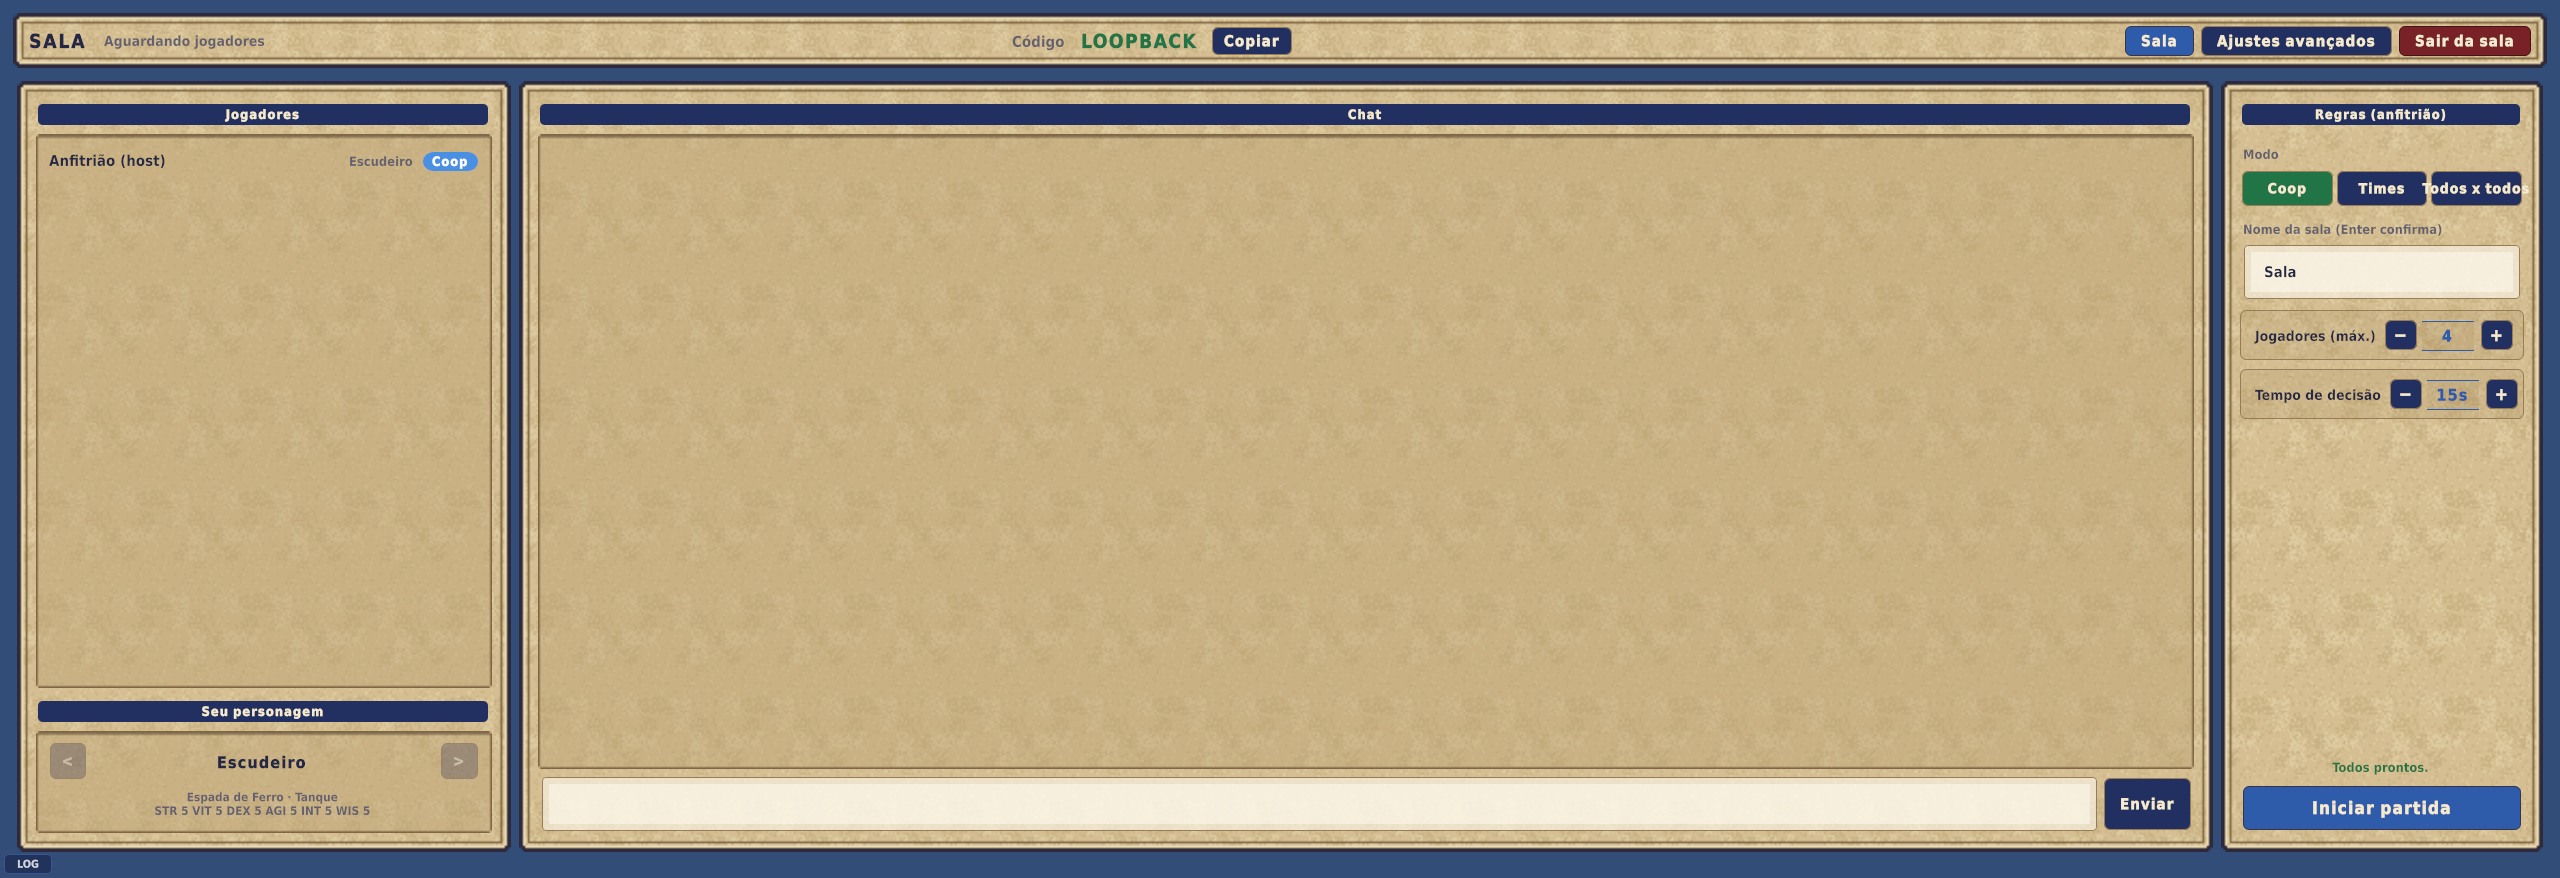
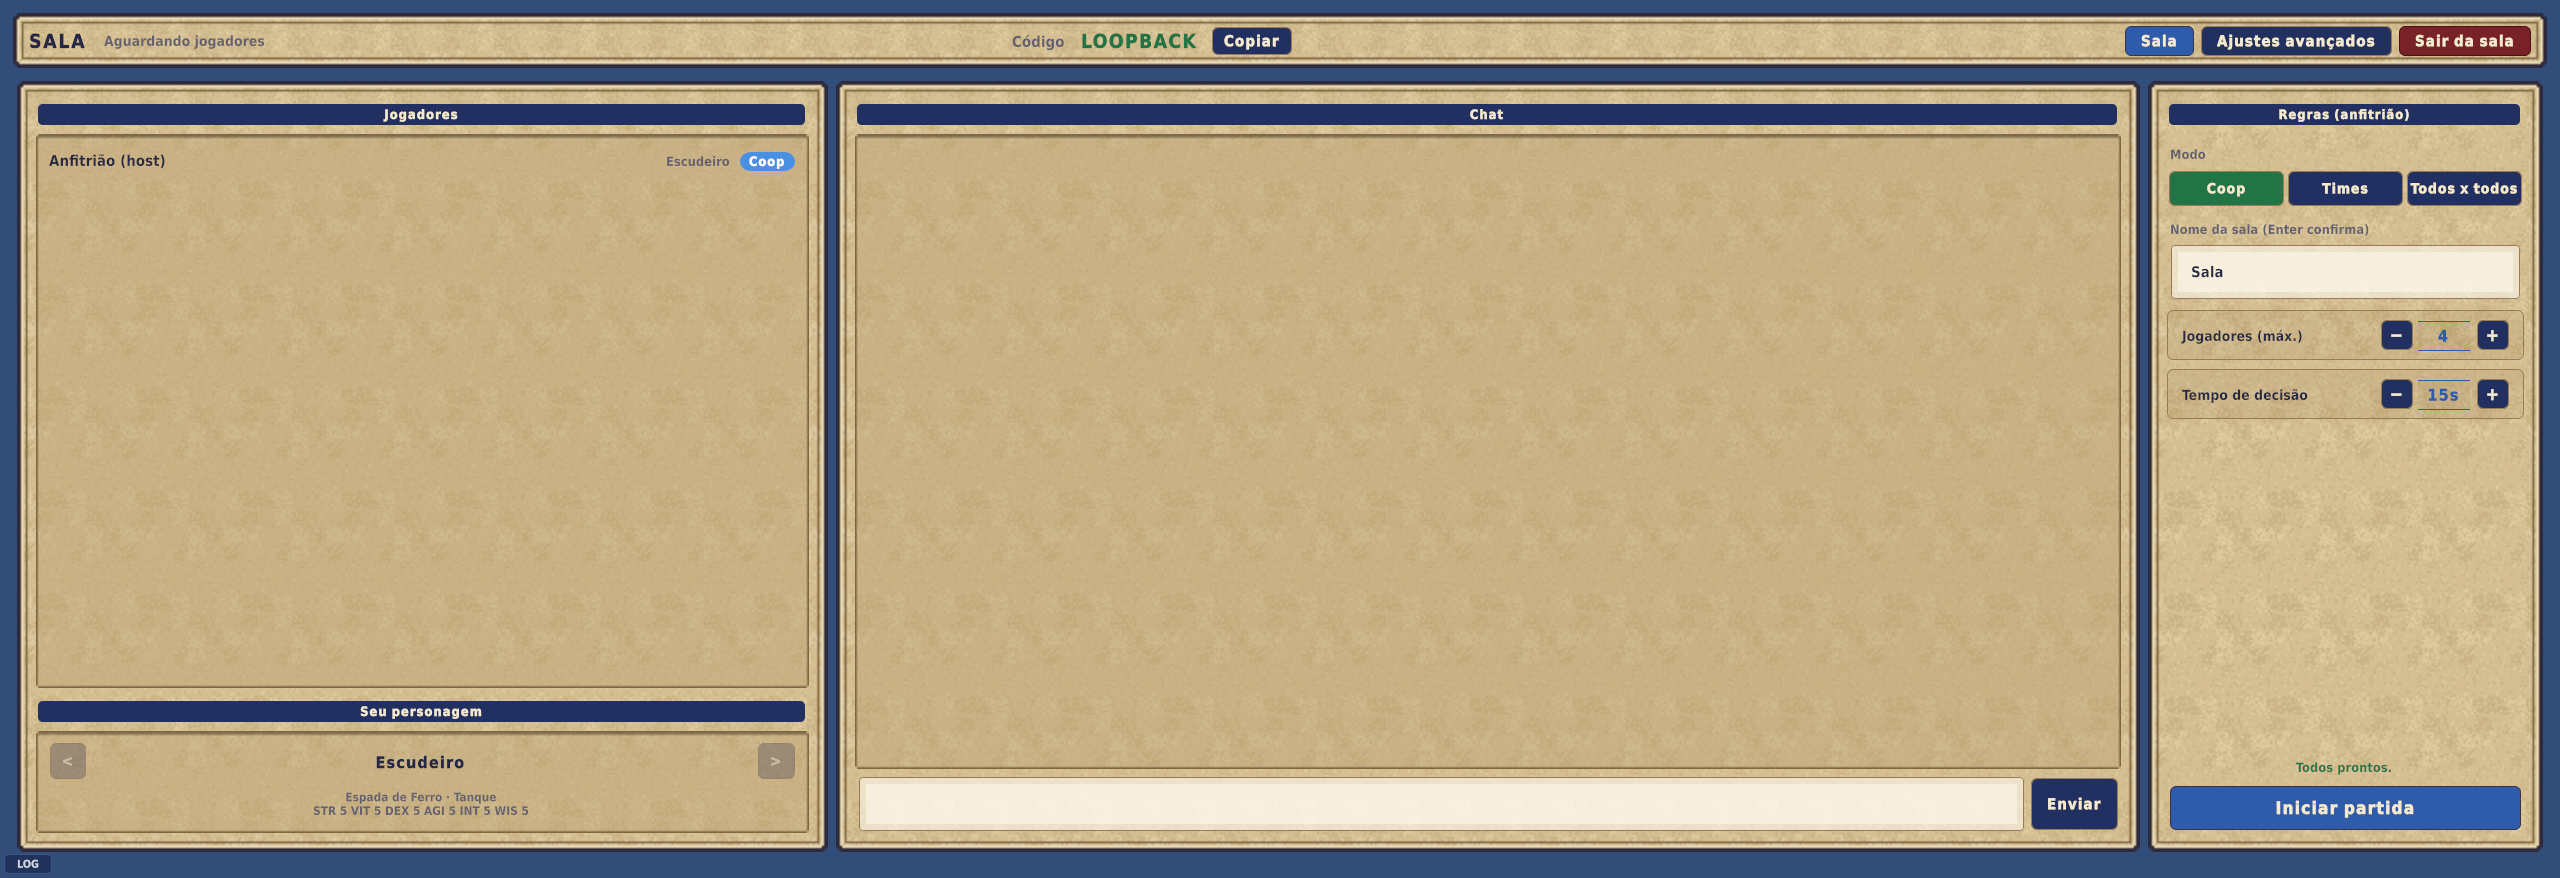
feat: feedback rodada 3 — magias em grade, presets da sala, rig no editor, toque e UI em %
- DEX à distância 4% → 2% por ponto (STR segue 6%).
- Magias: duração em rounds (dano contínuo segue por tick); incremento Efeito +1 round.
- Tela de magias: grade por elemento com sprites e busca sem acento; descrição de
  altura fixa (antes empurrava o painel).
- Sala: busca nas edições avançadas; presets nomeados (modo, regras e tuning).
- Celular: ação primeiro — com ação armada, um toque no alvo confirma; botão Andar.
- Rig: nós de ajuste entre articulação e peça; janela Pangea Skirmish/Animation/
  Rig e animações salva em Resources/RigOffsets. Animações saíram do menu do jogo.
- UI em % da tela (HUD, magias, menus, sala, criação); proporção mantida por
  UIHelper.KeepAspect onde a altura precisa seguir a largura.
- Pergaminho comum (o rasgado atrapalhava a leitura).
- Testes: presets, rig, busca/grade de magias; expectativas de DEX atualizadas.

diff --git a/scripts/gen_ui.py b/scripts/gen_ui.py
@@ -14,9 +14,8 @@ from PIL import Image
 OUT = os.path.join(os.path.dirname(__file__), "..", "Assets", "Resources", "UI", "Theme")
 # Pergaminho mais escuro e PIXELADO (pedido 2026-11-14): 4 tons, sem suavização. A textura é pequena
 # (64 px) e o tema a desenha em escala 2× com filtro "ponto"; o miolo (48×48) repete sem emenda.
-TONES = [(168, 142, 98), (150, 124, 84), (182, 158, 112), (126, 100, 64)]   # 2026-11-14: bem mais escuro e velho
-STAIN = (104, 80, 50)                                                      # manchas de idade
-INK, LINE, HILITE = (38, 30, 26), (96, 74, 46), (196, 172, 124)
+TONES = [(212, 191, 146), (201, 178, 131), (222, 203, 160), (186, 161, 114)]   # base, sombra, luz, mancha
+INK, LINE, HILITE = (46, 42, 60), (128, 102, 68), (236, 220, 180)
 B = 8            # borda do 9-slice, em px da textura
 N = 64
 
@@ -32,43 +31,26 @@ def tile_tone(rnd, coarse, x, y, m):
     return 0
 
 def paper(seed):
-    """Pergaminho velho: miolo pontilhado com manchas de idade; borda rasgada e queimada.
-    A borda (8 px) repete em 9-slice, então o rasgo também repete ao longo do painel."""
     rnd = random.Random(seed)
     m = N - 2 * B
     g = 6
-    coarse = [[rnd.choice([0, 0, 0, 1, 2, 0, 3 if rnd.random() < 0.35 else 0]) for _ in range(g)] for _ in range(g)]
+    coarse = [[rnd.choice([0, 0, 0, 1, 2, 0, 3 if rnd.random() < 0.25 else 0]) for _ in range(g)] for _ in range(g)]
     core = [[TONES[tile_tone(rnd, coarse, x, y, m)] for x in range(m)] for y in range(m)]
-    for _ in range(3):                                   # manchas redondas (umidade, idade)
-        cx, cy, r = rnd.randrange(m), rnd.randrange(m), rnd.randint(3, 6)
-        for y in range(m):
-            for x in range(m):
-                dx = min(abs(x - cx), m - abs(x - cx)); dy = min(abs(y - cy), m - abs(y - cy))
-                d2 = dx * dx + dy * dy
-                if d2 <= r * r and rnd.random() < 0.75: core[y][x] = STAIN
-                elif d2 <= (r + 1) * (r + 1) and rnd.random() < 0.5: core[y][x] = TONES[1]
     img = Image.new("RGBA", (N, N), (0, 0, 0, 0))
     px = img.load()
     for y in range(N):
         for x in range(N):
-            px[x, y] = core[(y - B) % m][(x - B) % m] + (255,)
-    # Rasgo: a profundidade do corte varia ao longo de cada lado (0–4 px); fora dele é transparente,
-    # e logo dentro do corte fica uma faixa queimada escura. O mesmo perfil nos 4 lados, com fase diferente.
-    prof = []
-    depth = 1
-    for i in range(N):
-        depth = max(0, min(4, depth + rnd.choice([-1, 0, 0, 1])))
-        prof.append(depth)
-    def cut(x, y, d):
-        if d < 0: return
-        for k in range(d): px[x(k), y(k)] = (0, 0, 0, 0)
-        px[x(d), y(d)] = INK + (255,)
-        if d + 1 < B: px[x(d + 1), y(d + 1)] = (92, 66, 40, 255)
-    for i in range(N):
-        cut(lambda k: i, lambda k: k, prof[i])                          # topo
-        cut(lambda k: i, lambda k: N - 1 - k, prof[(i + 17) % N])       # base
-        cut(lambda k: k, lambda k: i, prof[(i + 33) % N])               # esquerda
-        cut(lambda k: N - 1 - k, lambda k: i, prof[(i + 49) % N])       # direita
+            px[x, y] = core[(y - B) % m][(x - B) % m] + (255,)      # a borda continua o desenho do miolo
+    # moldura em degraus (canto de pixel art): tinta por fora, filete claro e sépia por dentro
+    def ring(d, col):
+        for i in range(d, N - d):
+            for (x, y) in ((i, d), (i, N - 1 - d), (d, i), (N - 1 - d, i)): px[x, y] = col + (255,)
+    ring(0, INK); ring(1, INK); ring(2, HILITE); ring(4, LINE)
+    for cx, cy in ((0, 0), (N - 1, 0), (0, N - 1), (N - 1, N - 1)):  # cantos cortados em 2 px
+        sx, sy = (1 if cx == 0 else -1), (1 if cy == 0 else -1)
+        for a, b in ((0, 0), (1, 0), (0, 1)): px[cx + a * sx, cy + b * sy] = (0, 0, 0, 0)
+        px[cx + sx, cy + sy] = INK + (255,); px[cx + 2 * sx, cy + sy] = INK + (255,); px[cx + sx, cy + 2 * sy] = INK + (255,)
+        px[cx + 2 * sx, cy + 2 * sy] = INK + (255,)
     return img
 
 def inset():

diff --git a/Assets/Scripts/BattleHUD.cs b/Assets/Scripts/BattleHUD.cs
@@ -297,6 +297,7 @@ namespace PangeaSkirmish
             _timerText        = r.Q<Label>("timer-text");
             _cameraModeText   = r.Q<Label>("camera-mode-text");
             _compassRose      = r.Q<VisualElement>("compass-rose");
+            KeepAspect(r.Q<VisualElement>("compass"), 1f);
             _compassLabels    = new[] { r.Q<Label>("compass-n"), r.Q<Label>("compass-e"),
                                         r.Q<Label>("compass-s"), r.Q<Label>("compass-w") };
             // Toque/clique na bússola gira a vista (GDD-022): metade esquerda = anti-horário, direita = horário.
@@ -1017,6 +1018,7 @@ namespace PangeaSkirmish
                 btn.RegisterCallback<PointerEnterEvent>(_ => ShowActionTip(item));
                 btn.RegisterCallback<PointerLeaveEvent>(_ => { if (_actionTip != null) _actionTip.style.display = DisplayStyle.None; });
                 bool stance = item.Id == "posture" || item.Id == "reaction";
+                KeepAspect(btn, stance ? 0.5f : 0.82f);
                 if (stance && _stanceRow != null) { btn.AddToClassList("bh-abtn--stance"); _stanceRow.Add(btn); }
                 else _actionBar.Add(btn);
                 _barButtons.Add((item, btn, badge));
@@ -1033,6 +1035,8 @@ namespace PangeaSkirmish
         }
 
         /// <summary>Espaço que os popups da barra de ticks deixam para a barra de ações (que fica logo acima).</summary>
+        private static void KeepAspect(VisualElement e, float ratio) => UIHelper.KeepAspect(e, ratio);
+
         private float ActionBarClearance()
         {
             return 0f;   // a barra de ações saiu de cima dos ticks (grade no canto esquerdo)

diff --git a/Assets/Scripts/UI/UIHelper.cs b/Assets/Scripts/UI/UIHelper.cs
@@ -57,6 +57,22 @@ namespace PangeaSkirmish.UI
             return RuntimePanelUtils.ScreenToPanel(panel, new Vector2(screenPos.x, Screen.height - screenPos.y));
         }
 
+        /// <summary>
+        /// Mantém a proporção: altura = largura × ratio. Larguras vêm em % da tela pelo USS; altura em % encolheria
+        /// em telas largas, então ela segue a largura (2026-11-14).
+        /// </summary>
+        public static void KeepAspect(VisualElement e, float ratio)
+        {
+            if (e == null) return;
+            e.RegisterCallback<GeometryChangedEvent>(_ =>
+            {
+                float w = e.layout.width;
+                if (float.IsNaN(w) || w <= 0f) return;
+                float h = w * ratio;
+                if (Mathf.Abs(e.resolvedStyle.height - h) > 0.5f) e.style.height = h;
+            });
+        }
+
         /// <summary>Texto para busca simples: minúsculo e sem acento ("Água" acha "agua"). 2026-11-14.</summary>
         public static string Fold(string t)
         {

diff --git a/Assets/Tests/PlayMode/SpellCastFlowTest.cs b/Assets/Tests/PlayMode/SpellCastFlowTest.cs
@@ -322,7 +322,7 @@ public class SpellCastFlowTest
         var longBow  = Make("ArqLongo", Team.Player, new Vector2Int(8, 14), "LongBow", 0, 5, dex: 6);
         Assert.IsTrue(longBow.stats.dexScalesDamage, "arco escala com DEX");
         Assert.IsFalse(sword.stats.dexScalesDamage, "espada continua na STR");
-        Assert.Greater(longBow.stats.PhysicalDamage, 28, "Arco Longo (3 ticks) bate forte por disparo");
+        Assert.GreaterOrEqual(longBow.stats.PhysicalDamage, 26, "Arco Longo (3 ticks) bate forte por disparo (DEX a 2% desde 2026-11-14)");
         Assert.Greater(longBow.stats.PhysicalDamage, shortBow.stats.PhysicalDamage, "arma pesada bate mais por disparo");
         float shortPerTick = shortBow.stats.PhysicalDamage / (float)TickRules.Duration(shortBow, ActionType.Attack, false);
         float swordPerTick = swordDmg / (float)TickRules.Duration(sword, ActionType.Attack, false);

diff --git a/Assets/Tests/PlayMode/SpellMenuShot.cs b/Assets/Tests/PlayMode/SpellMenuShot.cs
@@ -101,8 +101,8 @@ public class SpellMenuShot
         bool hoverShown = false;
         menu.Query<Label>().ForEach(l => { if (l.text.Contains("de dano de Fogo em quem estiver inteiro")) hoverShown = true; });
         Assert.IsTrue(hoverShown, "hover escreve o efeito da magia");
-        var ember = menu.Q<Button>("spell-Ember");
-        using (var e = PointerEnterEvent.GetPooled()) { e.target = ember; ember.SendEvent(e); }
+        var emberBlock = menu.Q<Button>("spell-Ember");
+        using (var e = PointerEnterEvent.GetPooled()) { e.target = emberBlock; emberBlock.SendEvent(e); }
         for (int i = 0; i < 2; i++) yield return null;
         Assert.AreEqual(topBefore, menu.worldBound.yMin, 0.5f, "a tela de magia não pula com a descrição");
         for (int i = 0; i < 2; i++) yield return null;

diff --git a/Assets/Tests/PlayMode/CharCreationTest.cs b/Assets/Tests/PlayMode/CharCreationTest.cs
@@ -138,6 +138,7 @@ public class CharCreationTest
         AttributeStats.Formulas = null;
         // Desde o balanceamento do simulador (2026-11-13) o critério é a taxa de vitória (scripts/balance_sim.py),
         // não o dano por tick: cajados e varinha trocam dano por conduíte de magia e alcance. Aqui só um teto de sanidade.
-        Assert.LessOrEqual(max / min, 3.5f, $"nenhuma arma bate mais de 3,5× outra por tick (menor {lo} {min:0.#}, maior {hi} {max:0.#})");
+        // 2026-11-14: a DEX à distância caiu para 2% e os cajados (DEX) ficaram mais fracos: teto de 4×.
+        Assert.LessOrEqual(max / min, 4f, $"nenhuma arma bate mais de 4× outra por tick (menor {lo} {min:0.#}, maior {hi} {max:0.#})");
     }
 }

diff --git a/Assets/Tests/EditMode/AttackShapeTests.cs b/Assets/Tests/EditMode/AttackShapeTests.cs
@@ -76,7 +76,8 @@ public class AttackShapeTests
         var bow = new UnitStatBlock { STR = 5, VIT = 5, DEX = 5, AGI = 5, INT = 5, WIS = 5 }.ToAttributeStats();
         WeaponDef.ApplyTo(bow, WeaponCatalog.Get("LongBow"), _t);
         Assert.IsTrue(bow.dexScalesDamage);
-        Assert.AreEqual(WeaponCatalog.Get("LongBow").damage * (1f + 5f * _t.statFormulas.dmgPctPerAttr), bow.DamagePerTile, 0.001f);
+        // Arma à distância escala pela DEX com multiplicador próprio (PR 27; 2% desde 2026-11-14).
+        Assert.AreEqual(WeaponCatalog.Get("LongBow").damage * (1f + 5f * _t.statFormulas.dexDmgPctPerAttr), bow.DamagePerTile, 0.001f);
     }
 
     [Test]

diff --git a/Assets/Scripts/PointerInput.cs b/Assets/Scripts/PointerInput.cs
@@ -104,7 +104,7 @@ namespace PangeaSkirmish
             _frame = Time.frameCount;
             _click = false; _dragDelta = Vector2.zero; _pinchDelta = 0f; _rightClick = false;
             var rm = Mouse.current;
-            if (rm != null)
+            if (rm != null && rm.added)   // testes trocam os dispositivos; ler um mouse removido dispara assert do Input System
             {
                 if (rm.rightButton.wasPressedThisFrame) _rightDownPos = rm.position.ReadValue();
                 if (rm.rightButton.wasReleasedThisFrame && Vector2.Distance(rm.position.ReadValue(), _rightDownPos) < 8f) _rightClick = true;

diff --git a/Assets/Scripts/UI/AnimViewerScreen.cs b/Assets/Scripts/UI/AnimViewerScreen.cs
@@ -40,6 +40,7 @@ namespace PangeaSkirmish.UI
             var r = Root;
             _stage = AnimationStage.Create(520);
             var view = r.Q<VisualElement>("view");
+            UIHelper.KeepAspect(view, 1f);
             if (view != null) view.style.backgroundImage = new StyleBackground(Background.FromRenderTexture(_stage.Texture));
             _actorLbl = r.Q<Label>("actor-label"); _timeLbl = r.Q<Label>("time-label");
             _notesFor = r.Q<Label>("notes-for"); _notesStatus = r.Q<Label>("notes-status");

diff --git a/Assets/Scripts/Net/CharCreationHUD.cs b/Assets/Scripts/Net/CharCreationHUD.cs
@@ -79,6 +79,7 @@ namespace PangeaSkirmish
             _nameInput  = r.Q<TextField>("name-input");
             _spriteLbl  = r.Q<Label>("sprite-label");
             _spritePreview = r.Q<VisualElement>("sprite-preview");
+            PangeaSkirmish.UI.UIHelper.KeepAspect(_spritePreview, 1f);
             _weaponInfoLbl = r.Q<Label>("weapon-info");
             _derivedLbl    = r.Q<Label>("derived-label");
             _infoLbl       = r.Q<Label>("info-label");

diff --git a/Assets/Scripts/UI/ProfileScreen.cs b/Assets/Scripts/UI/ProfileScreen.cs
@@ -35,6 +35,7 @@ namespace PangeaSkirmish.UI
             _selName     = r.Q<Label>("sel-name");
             _selInfo     = r.Q<Label>("sel-info");
             _preview     = r.Q<VisualElement>("preview");
+            UIHelper.KeepAspect(_preview, 1f);
             _newBtn      = r.Q<Button>("btn-new");
             _editBtn     = r.Q<Button>("btn-edit");
             _deleteBtn   = r.Q<Button>("btn-delete");
